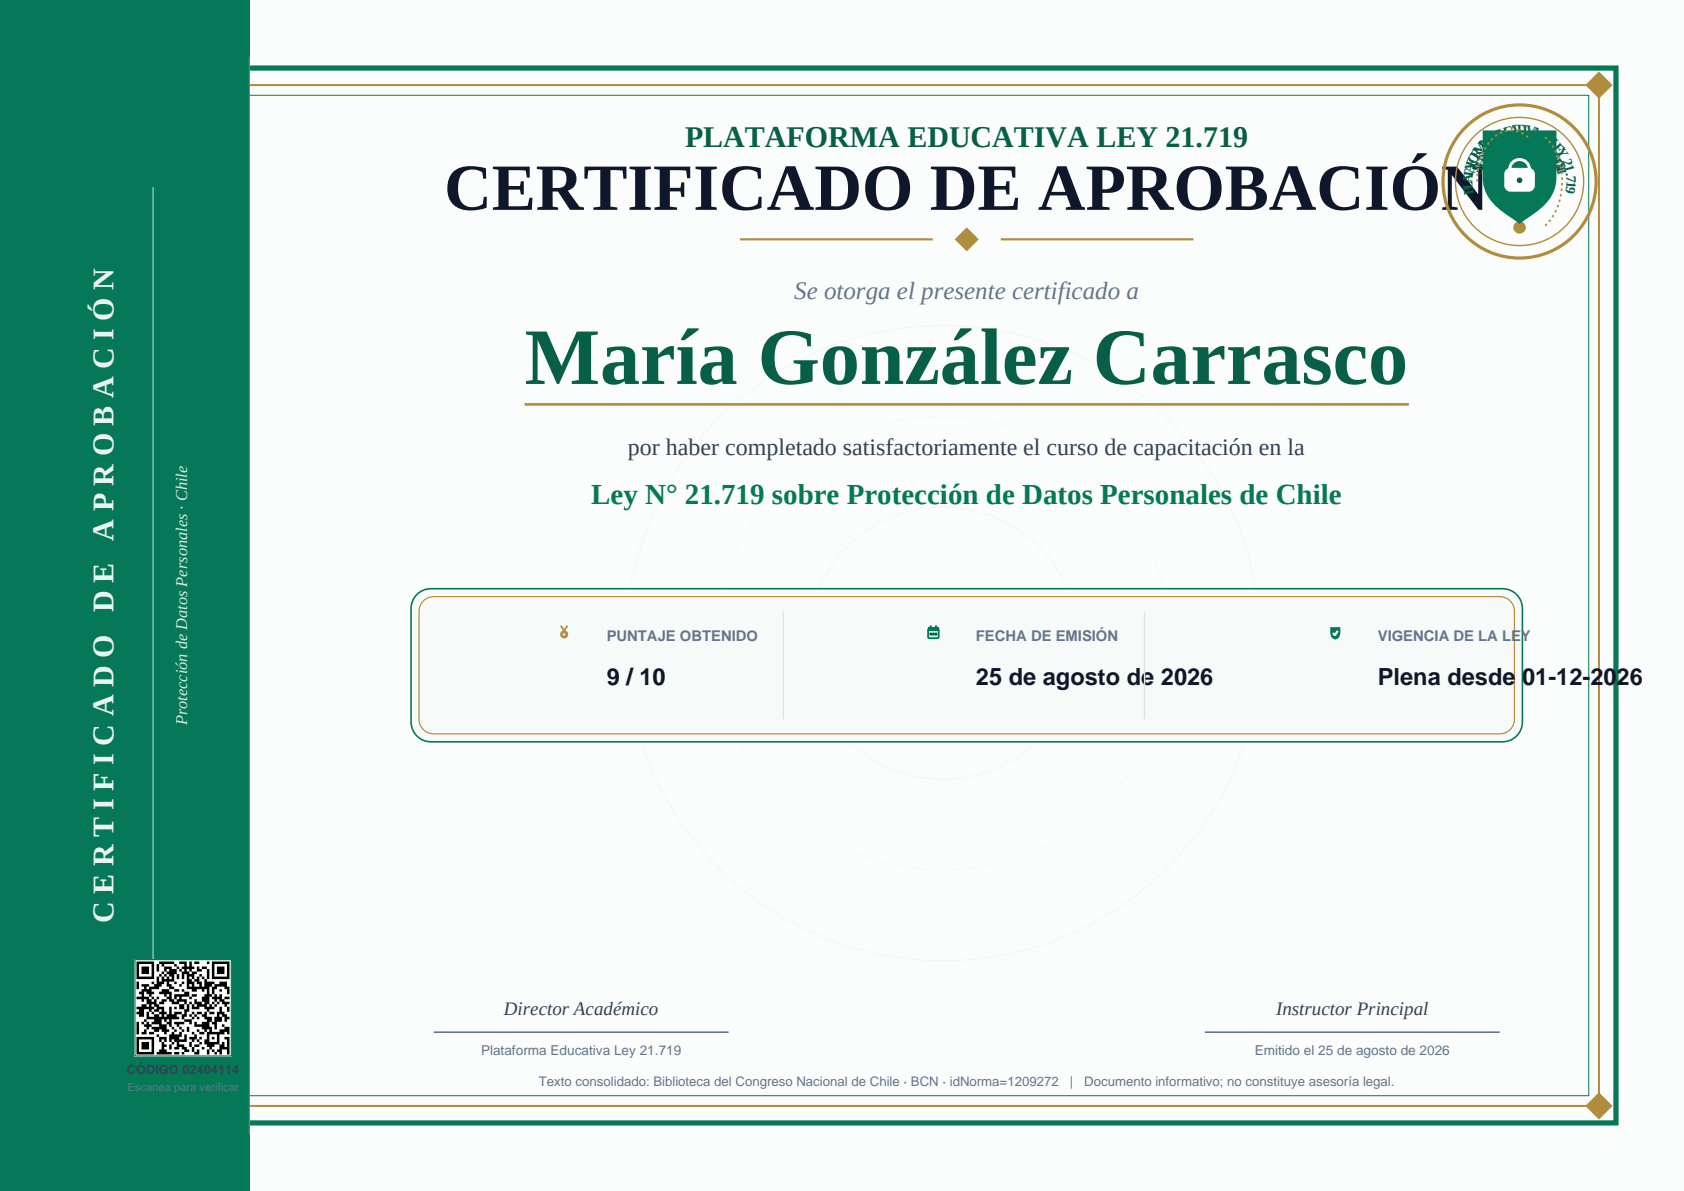
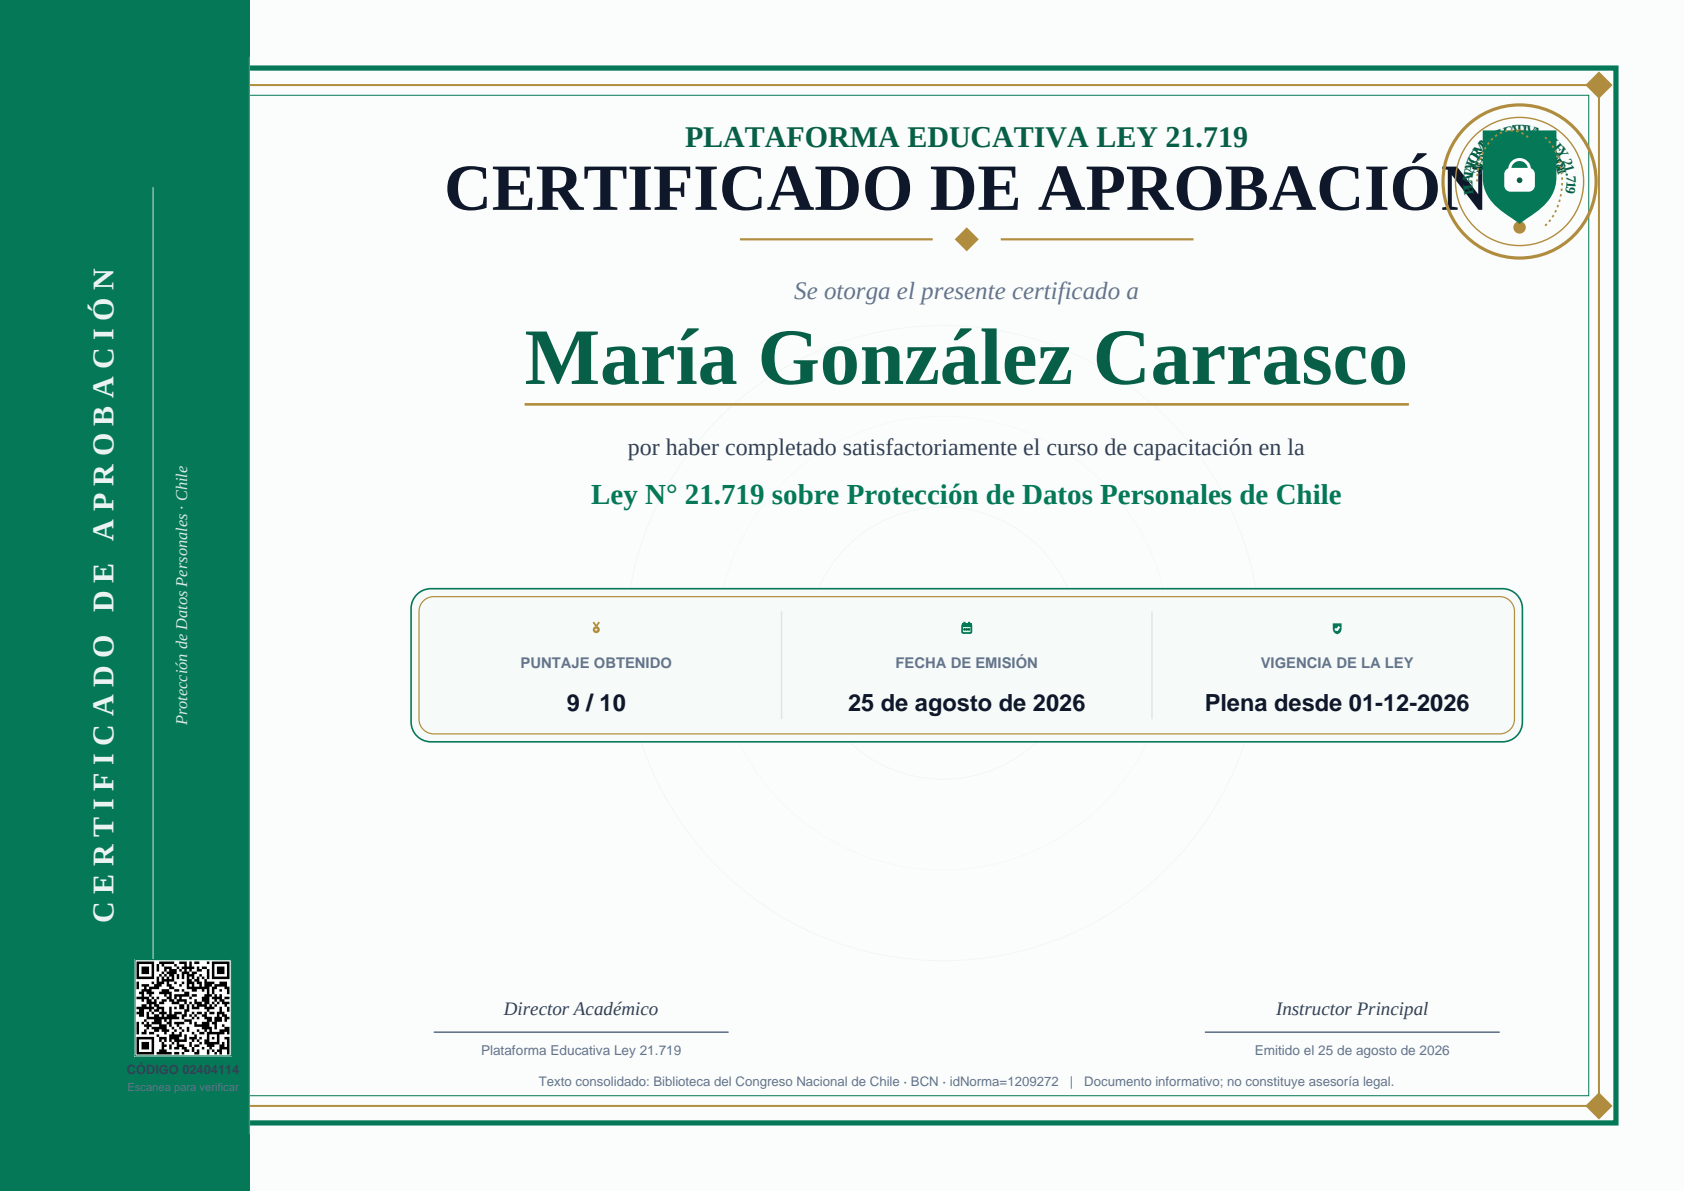
fix(certificado): centrado exacto caja detalles en 3 celdas iguales + auto-fit anti-desborde

Changed region(s): [[0.5249, 0.5281, 0.9881, 0.6213], [0.3088, 0.5281, 0.4632, 0.6213]]

diff --git a/tools/certificado/generar_certificado_v3.py b/tools/certificado/generar_certificado_v3.py
@@ -288,7 +288,7 @@ def generar(nombre, puntaje, total, salida: Path, url_verif="https://proteccion-
     c.setFillColor(EMERALD)
     c.drawCentredString(CX, y, "Ley N° 21.719 sobre Protección de Datos Personales de Chile")
 
-    # ── Caja de detalles con íconos ──
+    # ── Caja de detalles: 3 celdas IGUALES, contenido CENTRADO en cada celda ──
     y -= 15*mm
     bw, bh = 196*mm, 27*mm
     bx, by = CX-bw/2, y-bh
@@ -298,24 +298,34 @@ def generar(nombre, puntaje, total, salida: Path, url_verif="https://proteccion-
     c.setStrokeColor(GOLD); c.setLineWidth(0.6)
     c.roundRect(bx+1.4*mm, by+1.4*mm, bw-2.8*mm, bh-2.8*mm, 2.6*mm, stroke=1, fill=0)
 
-    cols_x = [bx+27*mm, bx+bw*0.47, bx+bw-33*mm]
     etiqs  = ["PUNTAJE OBTENIDO", "FECHA DE EMISIÓN", "VIGENCIA DE LA LEY"]
     vals   = [f"{puntaje} / {total}", ftxt, "Plena desde 01-12-2026"]
     icons  = [icono_medalla, icono_calendario, icono_escudo]
 
-    for xx, etiq, val, ic in zip(cols_x, etiqs, vals, icons):
-        ic(c, xx, by+bh-7.8*mm, 4.8)          # ícono más grande
-        c.setFont("Helvetica-Bold", 7.4)
-        c.setFillColor(SLATE_5)
-        c.drawString(xx+7.5*mm, by+bh-9.2*mm, etiq)
-        c.setFont("Helvetica-Bold", 11.8)
-        c.setFillColor(INK)
-        c.drawString(xx+7.5*mm, by+bh-17*mm, val)
+    cell_w = bw / 3.0
+    for i, (etiq, val, ic) in enumerate(zip(etiqs, vals, icons)):
+        ccx = bx + cell_w * (i + 0.5)          # centro de la celda
 
-    # separadores verticales finos
+        # ícono centrado arriba
+        ic(c, ccx, by + bh - 7.0*mm, 4.2)
+
+        # etiqueta centrada bajo el ícono
+        c.setFont("Helvetica-Bold", 7.4)
+        ew = c.stringWidth(etiq, "Helvetica-Bold", 7.4)
+        c.setFillColor(SLATE_5)
+        c.drawString(ccx - ew/2, by + bh - 14.0*mm, etiq)
+
+        # valor centrado, con auto-ajuste para que JAMÁS salga de su celda
+        vsz = fit(c, val, "Helvetica-Bold", 11.8, 8.0, cell_w - 10*mm)
+        vw = c.stringWidth(val, "Helvetica-Bold", vsz)
+        c.setFont("Helvetica-Bold", vsz)
+        c.setFillColor(INK)
+        c.drawString(ccx - vw/2, by + bh - 21.5*mm, val)
+
+    # separadores verticales en los tercios EXACTOS
     c.setStrokeColor(HexColor("#dbe7e2")); c.setLineWidth(0.7)
-    for xx in (bx+bw*0.335, bx+bw*0.66):
-        c.line(xx, by+4*mm, xx, by+bh-4*mm)
+    for xx in (bx + cell_w, bx + 2*cell_w):
+        c.line(xx, by + 4*mm, xx, by + bh - 4*mm)
 
     # ── QR + código + firmas + pie ──
     qr_data = f"{url_verif}?cod={codigo}"
